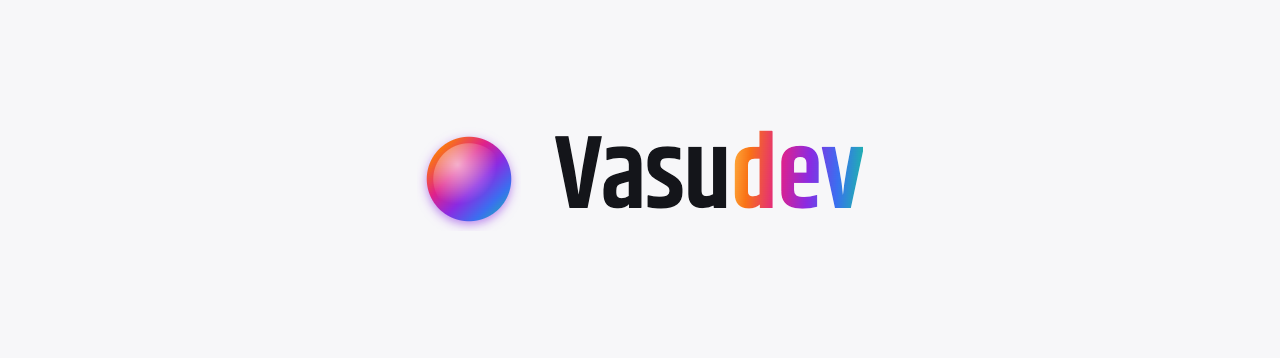
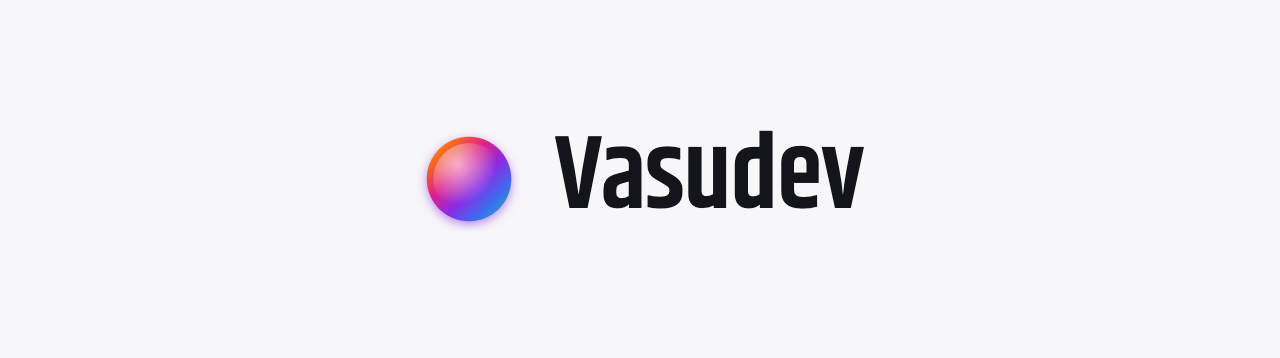
fix(brand): one gradient per screen; single owner for the gradient value
The guide spends the signature gradient once per screen, but the orb and
the wordmark's "dev" were painting it side by side at every placement and
in both docs compositions. <vasu-wordmark> takes a `beside-orb` attribute:
with it set, "dev" renders in ink and the adjacent orb is the screen's only
gradient. All three placements set it, and the hero and banner renders put
the wordmark in ink. The gradient span stays the default, for an orb-less
lockup where the wordmark would be the only mark.

The literal had three copies. ui/src/app/brand-gradient.ts now owns it as
the fallback behind Task 1's --brand-gradient token, and the render script
holds no copy at all: with the wordmark in ink, the orb master is the
frame's only gradient.

A guard in test/brand/no-lobster-assets.test.ts holds the composed rule —
every wordmark call site in ui/src must carry `beside-orb`.

Claude-Session: https://claude.ai/code/session_01HqBDjTY3KJDDioiMg5wXUy

Changed region(s): [[0.5625, 0.3687, 0.6875, 0.5838]]

diff --git a/ui/src/components/vasu-wordmark.test.ts b/ui/src/components/vasu-wordmark.test.ts
@@ -4,14 +4,18 @@ import "./vasu-wordmark.ts";
 
 type Wordmark = HTMLElement & { updateComplete: Promise<unknown>; size: string };
 
-async function mountWordmark(size?: string): Promise<Wordmark> {
+async function mountWordmark(attributes: Record<string, string> = {}): Promise<Wordmark> {
   const wordmark = document.createElement("vasu-wordmark") as Wordmark;
-  if (size !== undefined) {
-    wordmark.setAttribute("size", size);
+  for (const [name, value] of Object.entries(attributes)) {
+    wordmark.setAttribute(name, value);
   }
   document.body.append(wordmark);
   await wordmark.updateComplete;
   return wordmark;
+}
+
+function wordmarkSpans(wordmark: Wordmark): HTMLSpanElement[] {
+  return Array.from(wordmark.shadowRoot?.querySelectorAll("span") ?? []);
 }
 
 function wordmarkStyles(): string {
@@ -23,14 +27,21 @@ function wordmarkStyles(): string {
 
 describe("vasu-wordmark", () => {
   it("renders 'Vasu' in ink and 'dev' in the gradient as two spans", async () => {
-    const wordmark = await mountWordmark();
-    const spans = Array.from(wordmark.shadowRoot?.querySelectorAll("span") ?? []);
+    const spans = wordmarkSpans(await mountWordmark());
 
     expect(spans).toHaveLength(2);
     expect(spans[0]?.textContent).toBe("Vasu");
     expect(spans[1]?.textContent).toBe("dev");
     expect(spans[0]?.className).toBe("vasu-wordmark__ink");
     expect(spans[1]?.className).toBe("vasu-wordmark__gradient");
+  });
+
+  it("drops 'dev' to ink beside the orb so one screen paints one gradient", async () => {
+    const spans = wordmarkSpans(await mountWordmark({ "beside-orb": "" }));
+
+    expect(spans).toHaveLength(2);
+    expect(spans.map((span) => span.textContent)).toEqual(["Vasu", "dev"]);
+    expect(spans.every((span) => span.className === "vasu-wordmark__ink")).toBe(true);
   });
 
   it("names the whole lockup for assistive technology", async () => {
@@ -41,13 +52,13 @@ describe("vasu-wordmark", () => {
   });
 
   it("reflects the three lockup sizes and falls back to md", async () => {
-    expect((await mountWordmark("sm")).getAttribute("size")).toBe("sm");
-    expect((await mountWordmark("lg")).getAttribute("size")).toBe("lg");
+    expect((await mountWordmark({ size: "sm" })).getAttribute("size")).toBe("sm");
+    expect((await mountWordmark({ size: "lg" })).getAttribute("size")).toBe("lg");
     expect((await mountWordmark()).getAttribute("size")).toBe("md");
-    expect((await mountWordmark("enormous")).getAttribute("size")).toBe("md");
+    expect((await mountWordmark({ size: "enormous" })).getAttribute("size")).toBe("md");
   });
 
-  it("styles every size and fills only 'dev' with the signature gradient", () => {
+  it("styles every size and fills only 'dev' from the shared gradient token", () => {
     const styles = wordmarkStyles();
 
     for (const size of ["sm", "md", "lg"]) {
@@ -55,7 +66,7 @@ describe("vasu-wordmark", () => {
     }
     expect(styles).toContain("var(--font-display");
     expect(styles).toContain("font-weight: 600");
-    expect(styles).toContain("linear-gradient(");
+    expect(styles).toContain("background-image: var(--brand-gradient, linear-gradient(");
     expect(styles).toContain("background-clip: text");
     expect(styles).toContain("color: transparent");
   });

diff --git a/ui/src/components/vasu-wordmark.ts b/ui/src/components/vasu-wordmark.ts
@@ -1,5 +1,6 @@
-import { css, html, LitElement } from "lit";
+import { css, html, LitElement, unsafeCSS } from "lit";
 import { property } from "lit/decorators.js";
+import { SIGNATURE_GRADIENT } from "../app/brand-gradient.ts";
 
 /** Lockup sizes from the brand guide: sidebar row, card header, hero. */
 const WORDMARK_SIZES = ["sm", "md", "lg"] as const;
@@ -8,11 +9,17 @@ export type VasuWordmarkSize = (typeof WORDMARK_SIZES)[number];
 
 const DEFAULT_SIZE: VasuWordmarkSize = "md";
 
-/** The Vasudev wordmark: "Vasu" in ink, "dev" filled with the signature
+/** The Vasudev wordmark: "Vasu" in ink and "dev" filled with the signature
  * gradient, set in the display face at 600. It sits next to `<vasu-orb>` on the
- * login gate, the sidebar header and About. Text, not artwork: the host carries
- * `role="img"` with the full name so a heading or button around it still reads
- * "Vasudev" to assistive technology. */
+ * login gate, the sidebar header and About.
+ *
+ * The gradient is spent once per screen. Set `beside-orb` wherever the orb is
+ * already carrying it — every placement in the product today — and "dev" falls
+ * back to ink; the gradient span is for an orb-less lockup, where the wordmark
+ * is the screen's only mark.
+ *
+ * Text, not artwork: the host carries `role="img"` with the full name so a
+ * heading or button around it still reads "Vasudev" to assistive technology. */
 class VasuWordmark extends LitElement {
   static override styles = css`
     :host {
@@ -43,17 +50,10 @@ class VasuWordmark extends LitElement {
       color: var(--text-strong, #14151a);
     }
 
-    /* The gradient is spent here: "dev" is the only painted glyph run. */
+    /* Orb-less lockups only: next to the orb this span is not rendered, so the
+       screen keeps exactly one gradient. */
     .vasu-wordmark__gradient {
-      background-image: linear-gradient(
-        95deg,
-        #ffc24b 0%,
-        #f97316 16%,
-        #e0218a 38%,
-        #8a2be2 58%,
-        #3a6ff0 78%,
-        #16c79a 100%
-      );
+      background-image: var(--brand-gradient, ${unsafeCSS(SIGNATURE_GRADIENT)});
       -webkit-background-clip: text;
       background-clip: text;
       color: transparent;
@@ -61,6 +61,9 @@ class VasuWordmark extends LitElement {
   `;
 
   @property({ reflect: true }) size: VasuWordmarkSize = DEFAULT_SIZE;
+
+  /** The adjacent `<vasu-orb>` carries the gradient, so "dev" renders in ink. */
+  @property({ type: Boolean, reflect: true, attribute: "beside-orb" }) besideOrb = false;
 
   override connectedCallback(): void {
     super.connectedCallback();
@@ -74,8 +77,8 @@ class VasuWordmark extends LitElement {
   }
 
   override render() {
-    return html`<span class="vasu-wordmark__ink">Vasu</span
-      ><span class="vasu-wordmark__gradient">dev</span>`;
+    const devClass = this.besideOrb ? "vasu-wordmark__ink" : "vasu-wordmark__gradient";
+    return html`<span class="vasu-wordmark__ink">Vasu</span><span class=${devClass}>dev</span>`;
   }
 
   /** An unknown `size` attribute still has to render a usable lockup. */

diff --git a/test/brand/no-lobster-assets.test.ts b/test/brand/no-lobster-assets.test.ts
@@ -83,6 +83,11 @@ function assetReferencesNamingTheRetiredMark(...roots: string[]): string[] {
   return hits.sort();
 }
 
+/** Element names are discussed in prose too; only real markup is a call site. */
+function withoutComments(source: string): string {
+  return source.replaceAll(/\/\*[\s\S]*?\*\//gu, "").replaceAll(/^\s*\/\/.*$/gmu, "");
+}
+
 describe("brand marks", () => {
   it("ships no lobster, crab or mascot artwork in the Control UI or docs assets", () => {
     expect(assetFilesNamingTheRetiredMark("ui", "docs/assets")).toEqual([]);
@@ -90,6 +95,23 @@ describe("brand marks", () => {
 
   it("references no lobster, crab or mascot artwork from the Control UI, CLI or docs manifest", () => {
     expect(assetReferencesNamingTheRetiredMark("ui/src", "src/cli", "docs/docs.json")).toEqual([]);
+  });
+
+  it("spends the signature gradient once per screen at every wordmark call site", () => {
+    // The orb and the wordmark's "dev" both paint the gradient, so a lockup
+    // that shows them together must ask the wordmark for ink. Every placement
+    // in the product sits beside the orb; an orb-less one would be the screen's
+    // only mark and belongs in this list with its own reason.
+    const callSites = walkFiles(path.join(repoRoot, "ui/src"))
+      .filter((file) => file.endsWith(".ts") && !file.endsWith(".test.ts"))
+      .flatMap((file) =>
+        (withoutComments(readFileSync(file, "utf8")).match(/<vasu-wordmark[^>]*>/gu) ?? []).map(
+          (tag) => `${repoRelative(file)}: ${tag.replace(/\s+/gu, " ")}`,
+        ),
+      );
+
+    expect(callSites.length).toBeGreaterThan(0);
+    expect(callSites.filter((site) => !site.includes("beside-orb"))).toEqual([]);
   });
 
   it("prints no crustacean glyph in the CLI banner", () => {

diff --git a/ui/src/app/brand-gradient.ts b/ui/src/app/brand-gradient.ts
@@ -1,0 +1,11 @@
+/** The signature gradient, in one place for the Control UI.
+ *
+ * `--brand-gradient` in `ui/src/styles/base.css` is the token components paint
+ * with; this literal is the fallback they carry so the mark still renders if the
+ * base stylesheet has not applied. The brand guide spends the gradient once per
+ * screen, so `<vasu-orb>` and `<vasu-wordmark>` are its only consumers — and
+ * when they sit together the wordmark gives it up and renders in ink. Keep this
+ * value and the token in step. `assets/brand/orb.svg` carries the same stops for
+ * the rasterized masters, which render outside the CSS cascade. */
+export const SIGNATURE_GRADIENT =
+  "linear-gradient(95deg, #ffc24b 0%, #f97316 16%, #e0218a 38%, #8a2be2 58%, #3a6ff0 78%, #16c79a 100%)";

diff --git a/ui/src/components/app-sidebar-render.ts b/ui/src/components/app-sidebar-render.ts
@@ -168,7 +168,9 @@ function renderSidebarWorkspaceHeader(host: AppSidebarRenderHost) {
           <span class="sidebar-agent-card__name">
             <span class="sidebar-agent-card__name-text"
               >${
-                name === PRODUCT_NAME ? html`<vasu-wordmark size="sm"></vasu-wordmark>` : name
+                name === PRODUCT_NAME
+                  ? html`<vasu-wordmark size="sm" beside-orb></vasu-wordmark>`
+                  : name
               }</span
             >
             <span class="sidebar-agent-card__chevron" aria-hidden="true"

diff --git a/ui/src/components/login-gate.ts b/ui/src/components/login-gate.ts
@@ -343,7 +343,7 @@ function renderLoginGate(props: LoginGateProps) {
       <div class="login-gate__card" data-mode=${feedback?.placement ?? "form"}>
         <header class="login-gate__brand">
           <vasu-orb class="login-gate__logo" size="27"></vasu-orb>
-          <vasu-wordmark class="login-gate__brand-name" size="lg"></vasu-wordmark>
+          <vasu-wordmark class="login-gate__brand-name" size="lg" beside-orb></vasu-wordmark>
         </header>
         ${body}
       </div>

diff --git a/ui/src/pages/about/view.ts b/ui/src/pages/about/view.ts
@@ -160,7 +160,7 @@ function renderHero(props: AboutProps) {
       >
         <vasu-orb size="96"></vasu-orb>
       </button>
-      <h2 class="about-hero__name"><vasu-wordmark size="lg"></vasu-wordmark></h2>
+      <h2 class="about-hero__name"><vasu-wordmark size="lg" beside-orb></vasu-wordmark></h2>
       <p class="about-hero__tagline">${t("aboutPage.tagline")}</p>
       ${
         props.buildInfo.version
